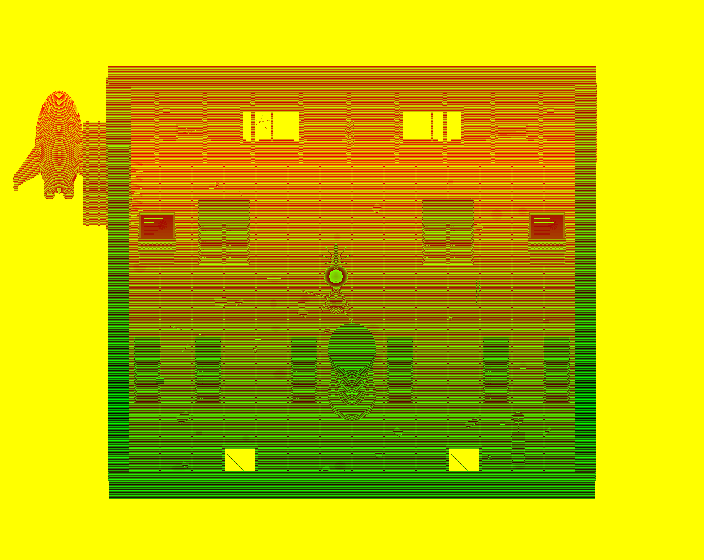
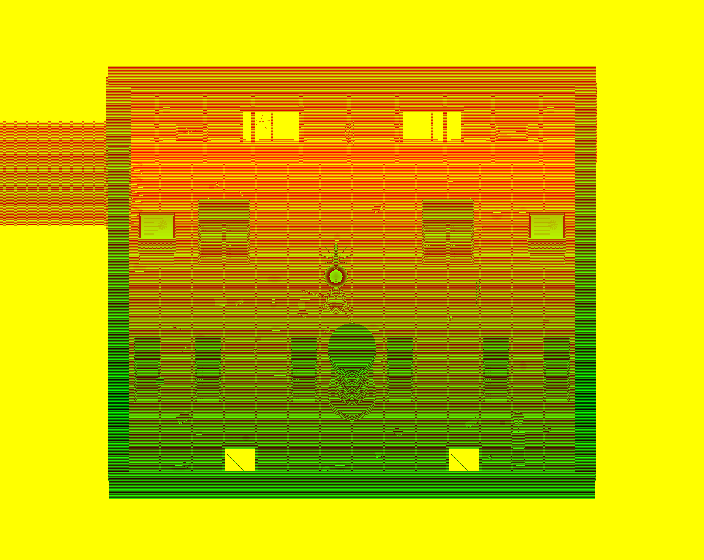
Enigma: the relay deck's airlock tube now leads to Docking Bay 3
Re-rendered without the old ship parked at the airlock — the tube runs out
to the bay where the skiff docks. Lumar scenes can also carry steam vents
(hot springs) like the District's.

Claude-Session: https://claude.ai/code/session_01D64r7qp9r1aCtRpZrBisjj

diff --git a/apps/bridge/js/worlds/lumar.js b/apps/bridge/js/worlds/lumar.js
@@ -2438,6 +2438,7 @@
         drawChimneySmoke(ctx, Math.round(offX + p[0] * ts), Math.round(offY + p[1] * ts), ts, time, i * 7 + 3);
       });
       if (sc.fountain) sceneFountain(ctx, sc.fountain, offX, offY, ts, time);
+      if (sc.steam && typeof BridgeSkyline !== 'undefined') BridgeSkyline.steam(ctx, sc, offX, offY, ts, time);   // hot springs
     }
   });
 
